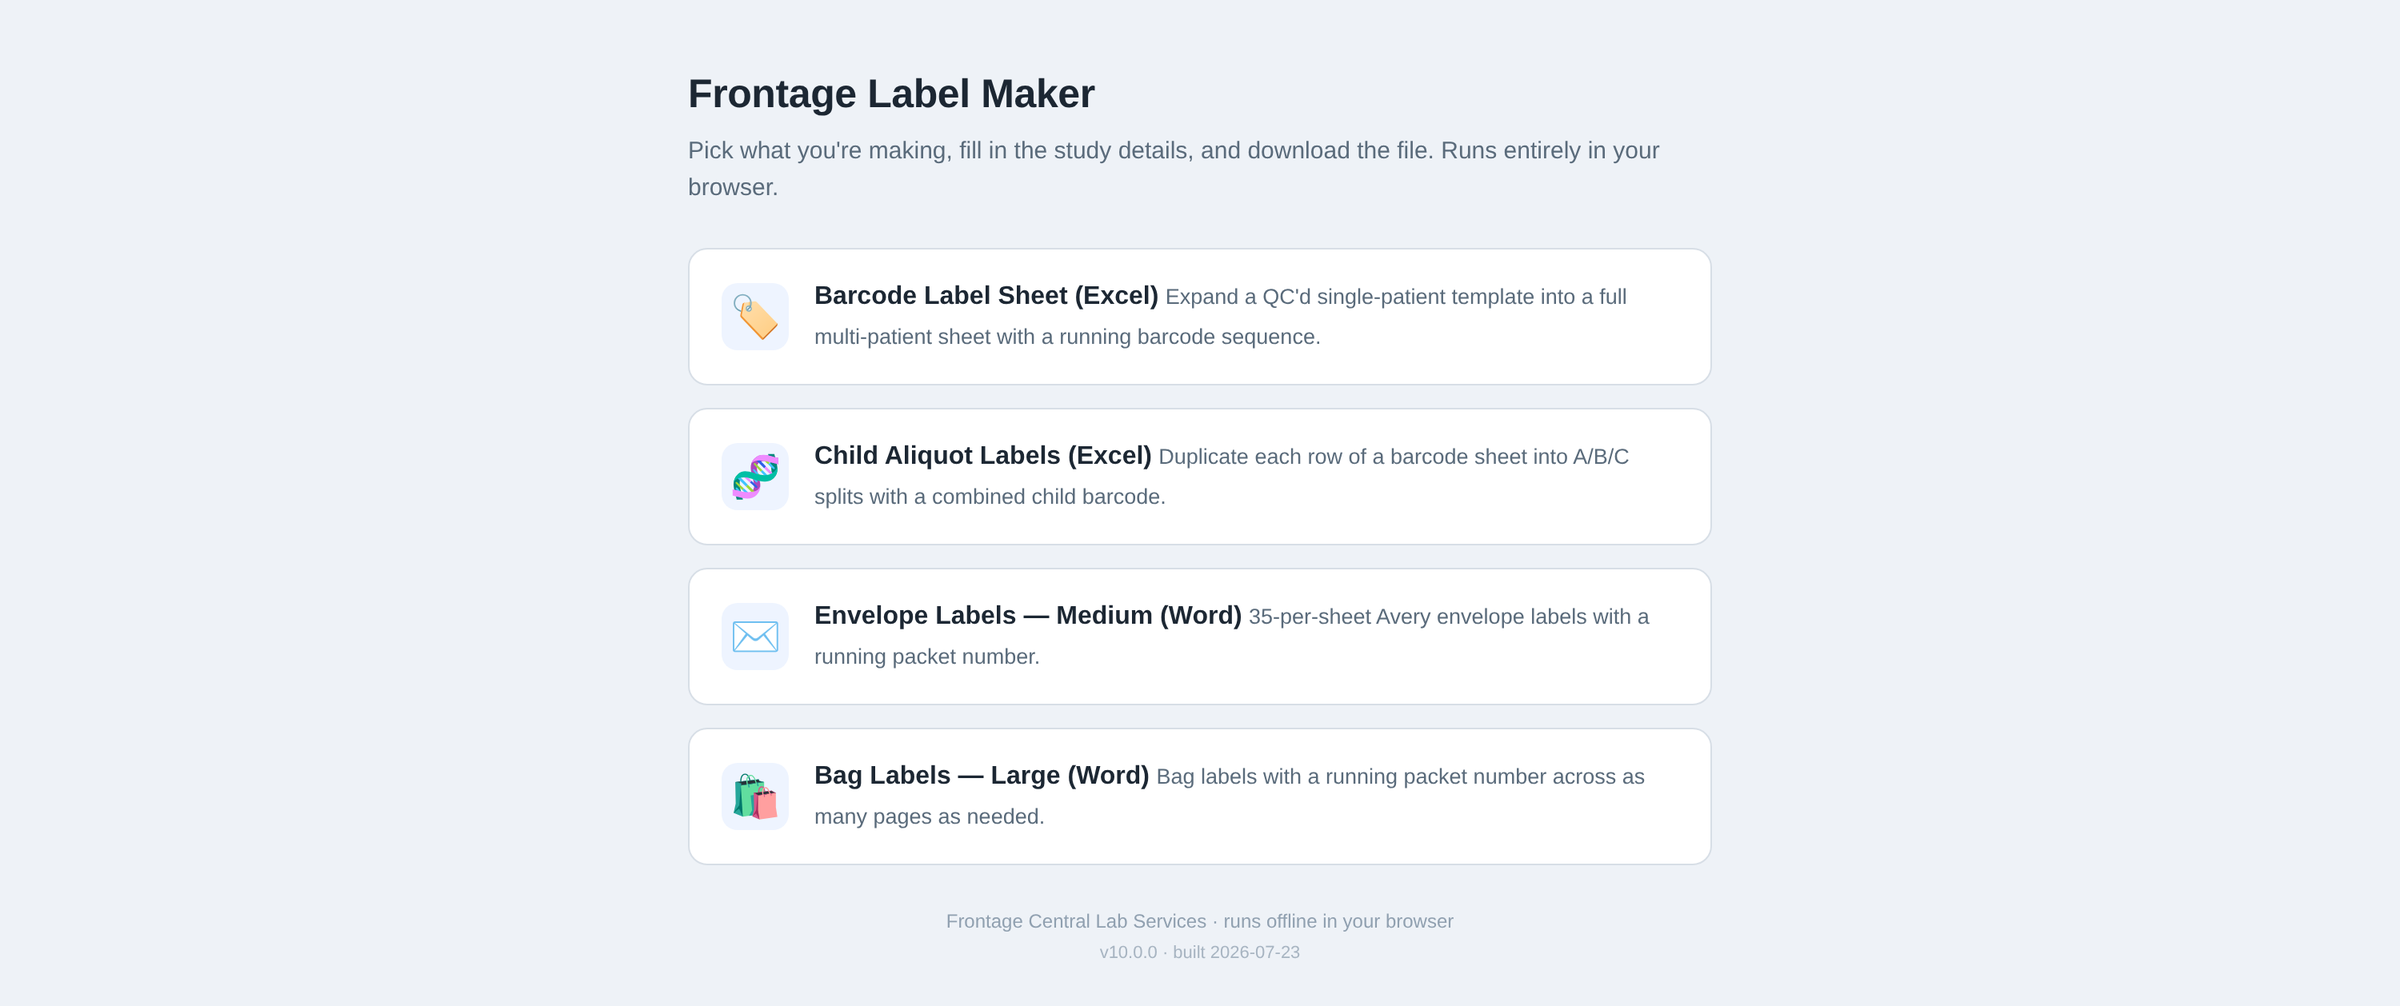
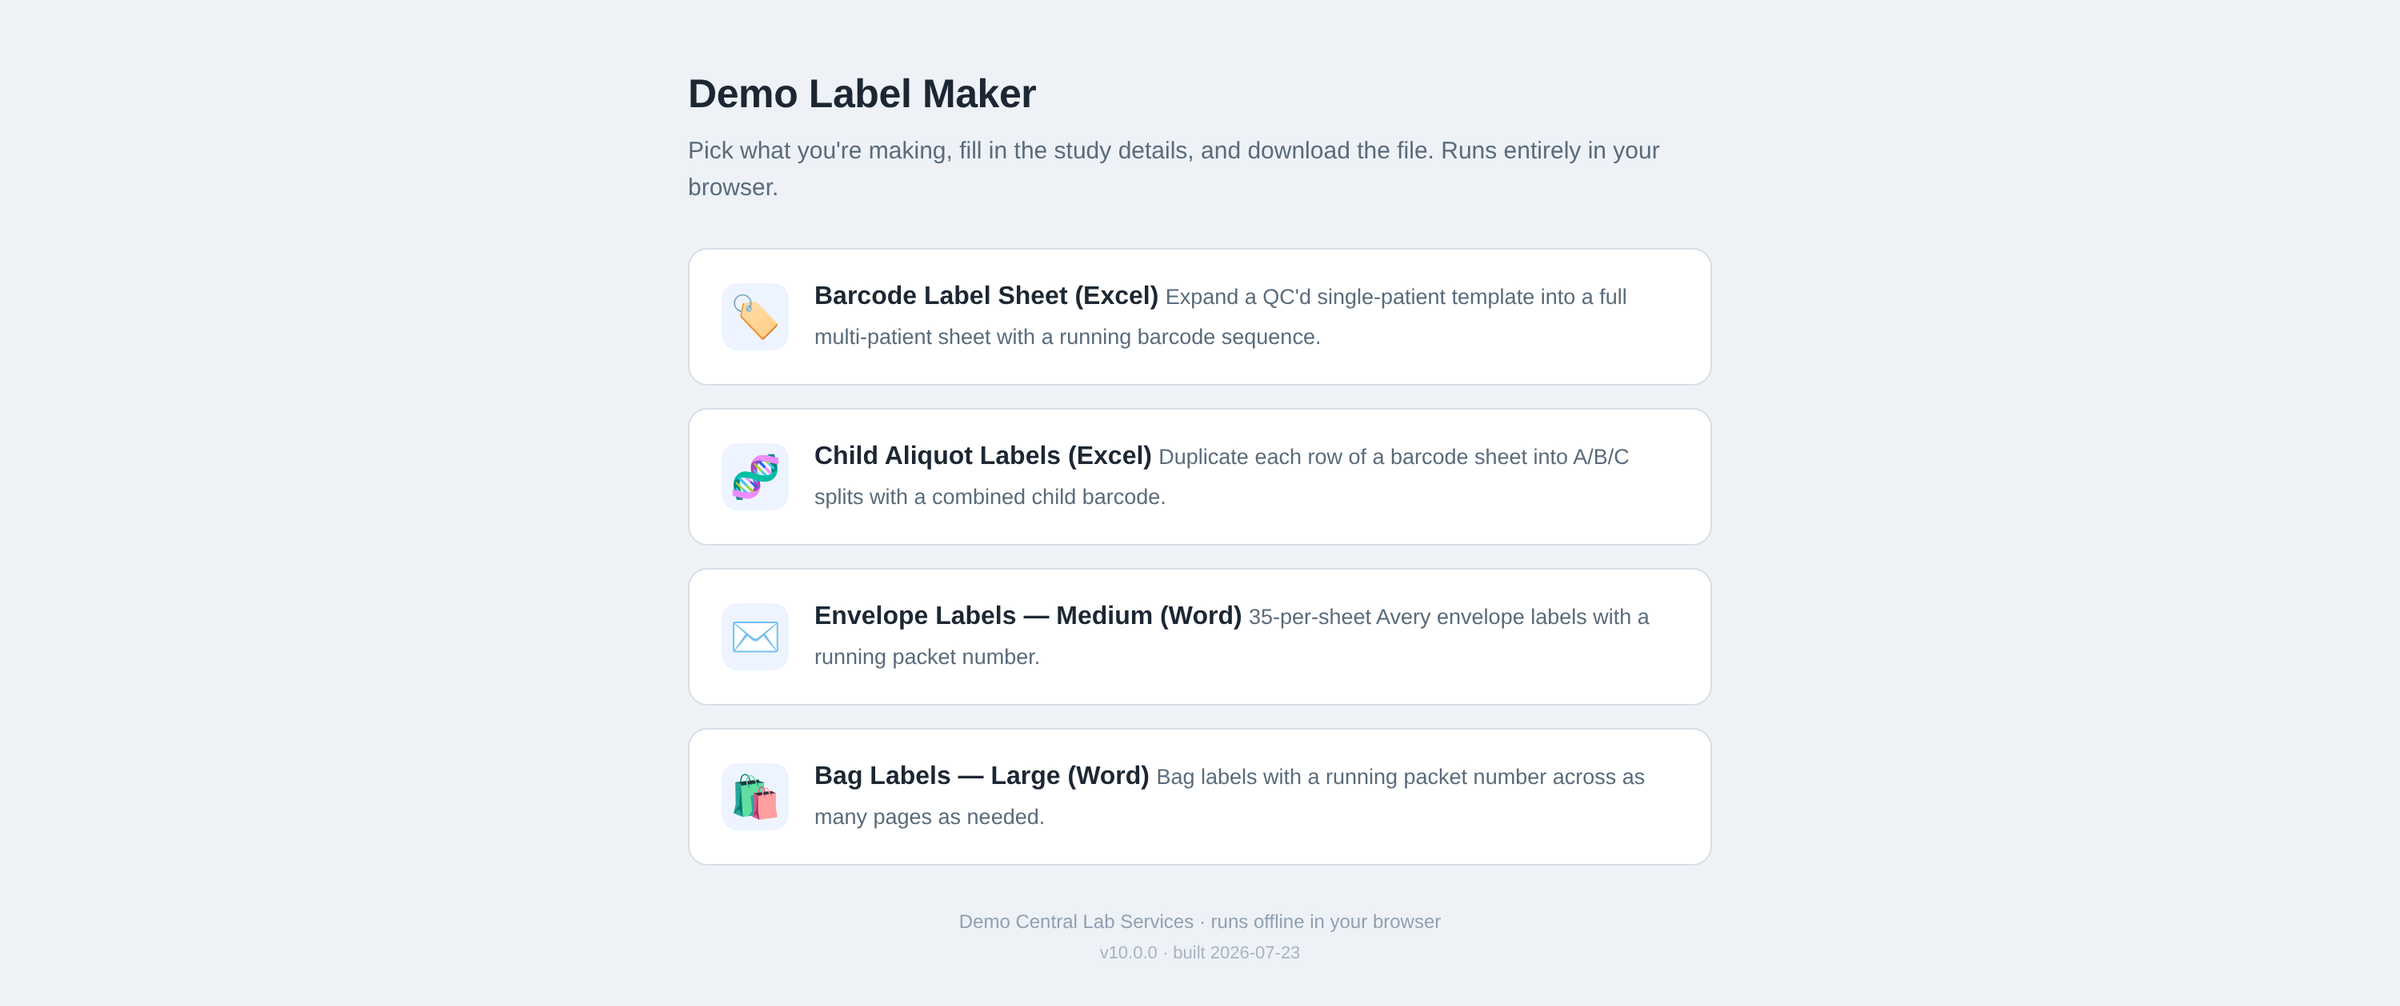
The site no longer names the employer
Decided 2026-09-17, on the advice of a former coworker of four years. This
reverses hard rule 2, which previously said naming them was fine and
deliberate, so older log entries disagree with the repo; CLAUDE.md now says
which one wins.

The rule is split by surface rather than reversed outright. The site names no
employer. The resume, LinkedIn and the GitHub profile README still do, because
employment history is Dustin's to disclose. public/Dustin-Jones-Resume.pdf is
therefore a deliberate exception: it is the same file he sends to employers,
and two resumes that disagree would be worse. Both README.md and CLAUDE.md say
so, so it does not get "fixed" later.

All eight screenshots are re-shot. The name was in every one of them: the
Frontage CLS sidebars, the intake heading, the label maker titles and footers,
the billing masthead, one body sentence, and a hardcoded F badge in the app
sidebar that no name-based replacement reaches. The chrome now reads Demo CLS,
Demo Central Lab, Demo Label Maker and Demo Central Lab Services, which matches
the invented ACME Pharma and DEMO-4471C002 fixtures already on screen.

About drops the employer and the town from the experience list, since the town
alone is close to naming them, and the ski-school paragraph no longer needs it.

The screenshots come from career-hub's new scripts/shoot_site.py, which forces
the shipped geometry, scrubs the name from the live DOM before each shot, and
[…]

Changed region(s): [[0.2812, 0.0616, 0.4688, 0.1233], [0.4062, 0.8936, 0.5938, 0.9245], [0.375, 0.8012, 0.4062, 0.832]]

diff --git a/CLAUDE.md b/CLAUDE.md
@@ -23,10 +23,14 @@ The Jekyll site this replaced was deleted in ticket 10. Nothing here builds with
 
 1. **Never push, create a repo, change visibility, or enable Pages without asking Dustin first,
    per action.** Not "once at the start". Each time.
-2. **Never publish employer internals.** Naming Frontage Laboratories is fine and deliberate.
-   Describing how their systems work internally, or reproducing anything specific to their
-   business or their clients, is not. Same rule for `rental-pipeline`, which is separate work
-   with its own client data.
+2. **Never name the employer, and never publish their internals.** As of 2026-09-17 the employer
+   is not named anywhere on this site: not in page copy, not in alt text or captions, not inside
+   an image. This reverses the earlier rule that naming them was fine, so older log entries
+   disagree with it. This file wins. The single deliberate exception is
+   `public/Dustin-Jones-Resume.pdf`, which names them because that is employment history and it
+   matches the resume Dustin sends out. Describing how their systems work internally, or
+   reproducing anything specific to their business or their clients, stays forbidden. Same rule
+   for `rental-pipeline`, which is separate work with its own client data.
 3. **Run the screen before every publish.** It lives outside this repo on purpose, so the list of
    strings being screened for is never itself published:
    ```bash
@@ -170,15 +174,28 @@ their real inputs are real client data.
 (built in career-hub with `build_resume.py general --no-phone`, no phone number) and `og.png`.
 Open both before every publish.
 
-The pipeline lives in career-hub because it depends on private repos:
+The pipeline lives in career-hub because it depends on private repos. **Always shoot through
+`../career-hub/scripts/shoot_site.py`**, which is the entry point for both tools:
 
-- `../career-hub/scripts/shoot_clean.py`, the quoting app. Wraps its shoot tool and rewrites
-  every fee, legal note and item name to invented values first. **A naive shoot leaks real
-  pricing**; read the 2026-08-28 entry in `../career-hub/workflow/LOG.md` before touching it.
-- `../career-hub/scripts/shoot-offline-tools.py` and `gen-billing-demo.js`, the label maker and
-  the billing analyzer. Generates synthetic workbooks and drives the real apps.
-  **It blanks every `<img>` before shooting**, because the label preview renders the employer
-  logo. Keep that step.
+```bash
+QG=~/sync/code/work/quote-generator
+$QG/.venv/bin/python ../career-hub/scripts/shoot_site.py quote   OUTDIR
+$QG/.venv/bin/python ../career-hub/scripts/shoot_site.py offline OUTDIR
+```
+
+It forces the shipped geometry (1500x950 CSS at 2x) and rewrites the employer name out of the
+app chrome, then **aborts the shoot if the name is still in the page**, so hard rule 2 cannot be
+broken by re-shooting. It delegates to, and does not replace:
+
+- `shoot_clean.py`, the quoting app. Rewrites every fee, legal note and item name to invented
+  values first. **A naive shoot leaks real pricing**; read the 2026-08-28 entry in
+  `../career-hub/workflow/LOG.md` before touching it.
+- `shoot-offline-tools.py` and `gen-billing-demo.js`, the label maker and the billing analyzer.
+  Generates synthetic workbooks and drives the real apps. **It blanks every `<img>` before
+  shooting**, because the label preview renders the employer logo. Keep that step.
+
+Delivered widths: the quoting app and the label maker are resampled from 3000 to 2400; the
+billing analyzer ships at its native 3000. Crop heights are in the 2026-09-17 LOG entry.
 
 Deliberately not shipped: any screenshot with a visible fee column. The figures in them are
 invented, but a stranger reading a picture cannot tell an invented rate from a real one.

diff --git a/README.md b/README.md
@@ -42,10 +42,21 @@ in `scripts/verify.py`.
 
 ## Before publishing anything
 
-Three of the four case studies describe tools built at Frontage Laboratories. Naming the employer
-is fine; describing their internals is not. No pricing or margin, internal identifiers, study
-IDs, client names, hostnames, IPs, or coworker names may appear on the site or inside an image.
-`rental-pipeline` is separate work with its own client data, and the same rules apply.
+Three of the four case studies describe tools built at a clinical CRO.
+
+**The employer is not named on this site**, in page copy, in alt text, or inside any image. This
+was decided on 2026-09-17 and reverses the earlier position that naming them was fine. The
+screenshots are shot through a wrapper that rewrites the app chrome to neutral demo branding and
+aborts the shoot if the name survives into the page, so a re-shoot cannot quietly reintroduce it.
+
+The one deliberate exception is `public/Dustin-Jones-Resume.pdf`, which does name the employer.
+That is employment history, it matches the resume Dustin sends to employers, and making the two
+disagree would be worse than the exception. Do not "fix" it.
+
+Describing their internals stays forbidden: no real pricing or margin, internal identifiers,
+study IDs, client names, hostnames, IPs, or coworker names may appear on the site or inside an
+image. Invented figures in a clearly synthetic demo are allowed, and the caption has to say they
+are invented. `rental-pipeline` is separate work with its own client data, same rules.
 
 Run the screening script before every publish. It lives outside this repo on purpose, so the list
 of strings being screened for is never itself published:
